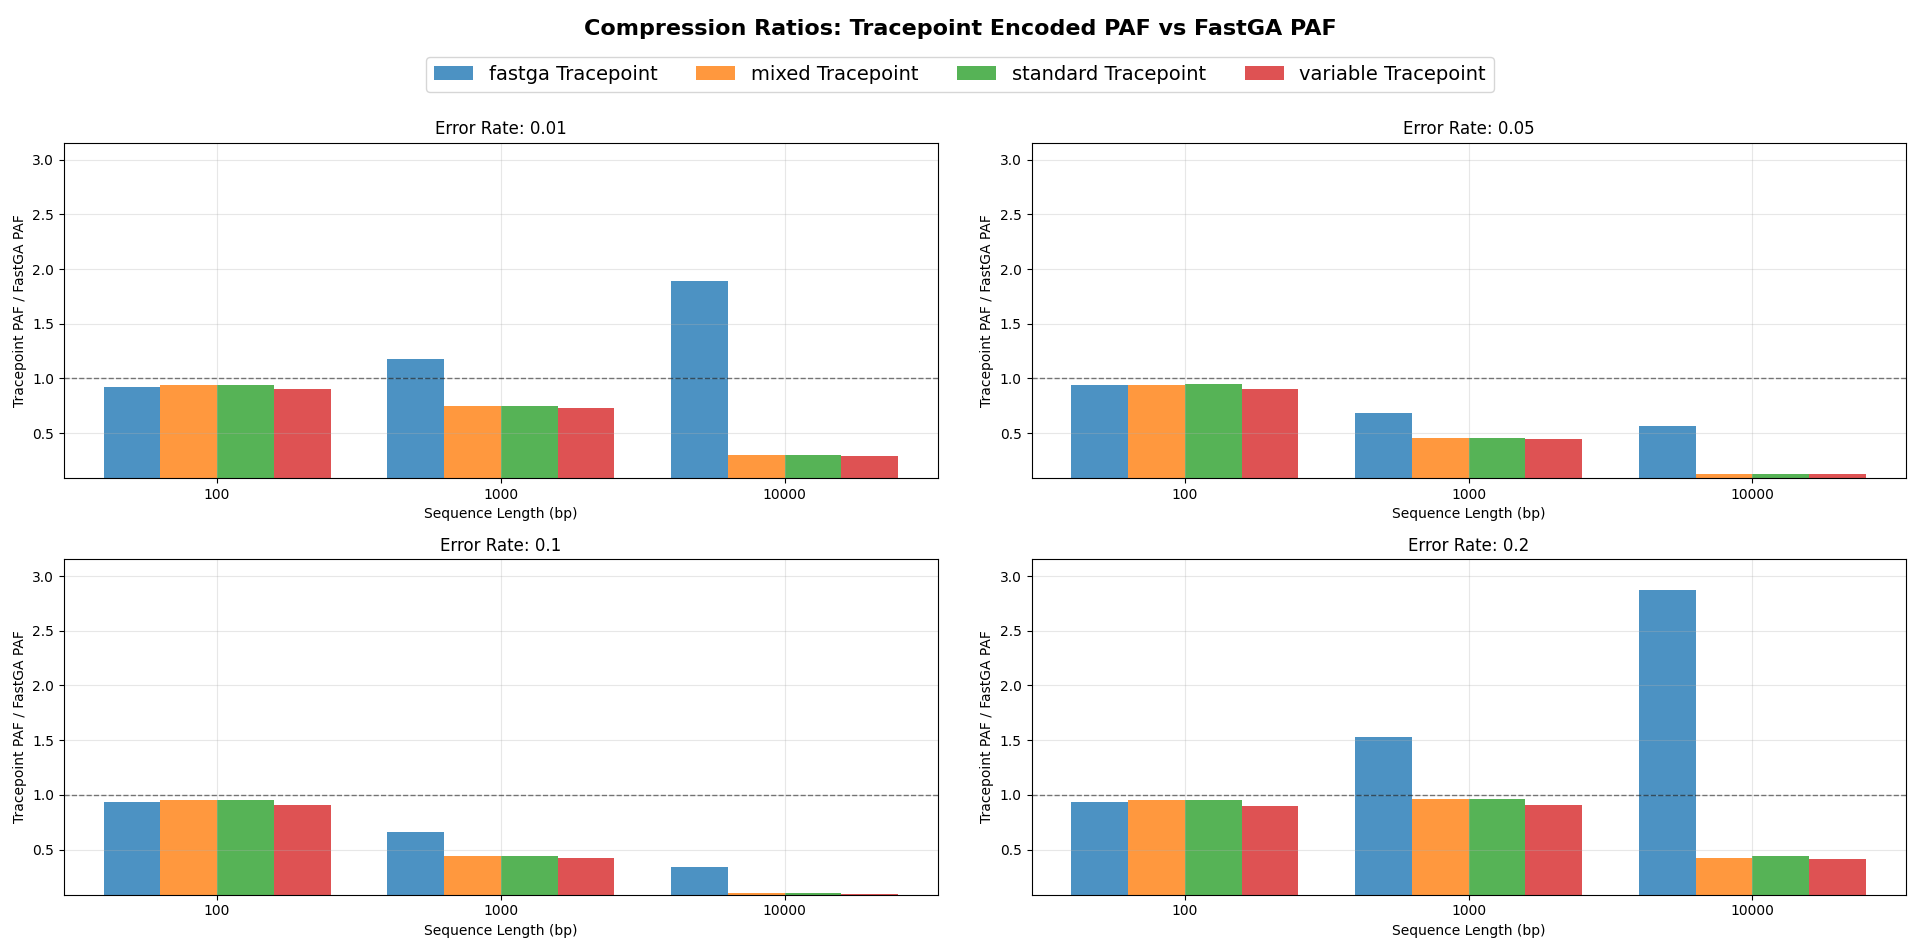
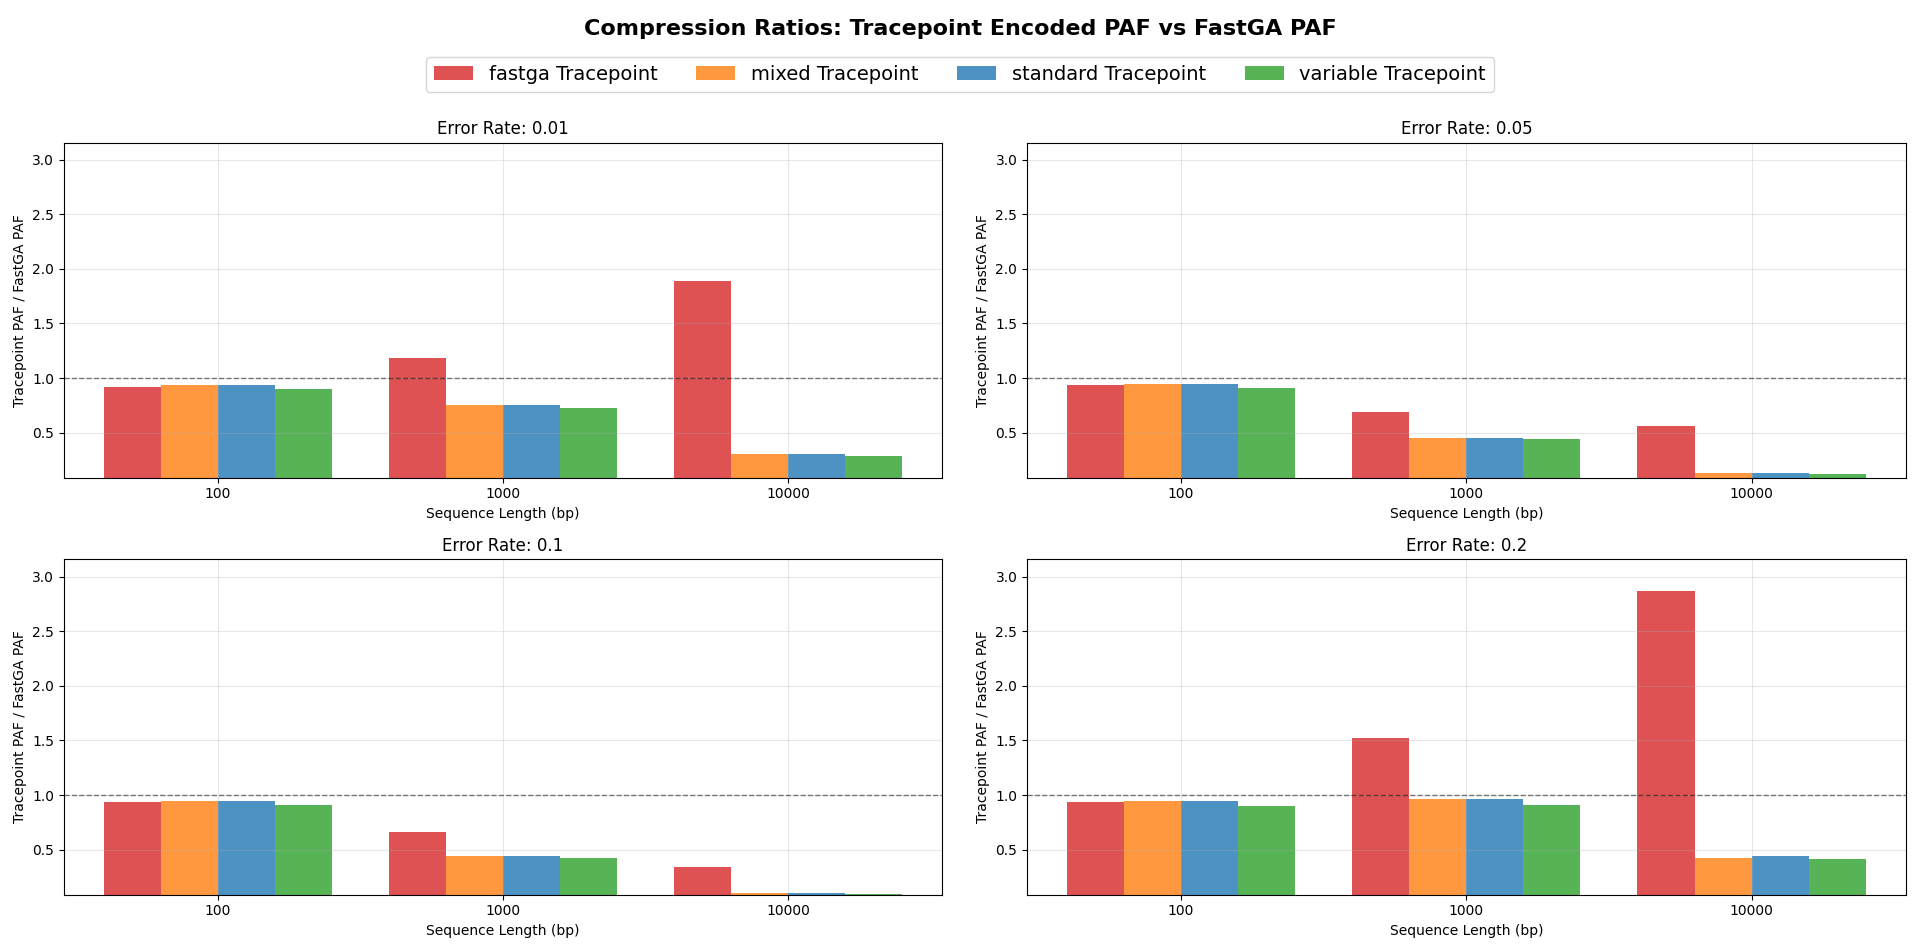
Update charts

diff --git a/plot_scripts/file_sizes_plotter.py b/plot_scripts/file_sizes_plotter.py
@@ -76,10 +76,12 @@ tracepoint_types = sorted(df['Tracepoint Type'].unique())
 print(f"Actual tracepoint types: {tracepoint_types}")
 
 # Create color map for actual types
-colors = {}
-color_list = ['#1f77b4', '#ff7f0e', '#2ca02c', '#d62728', '#9467bd', '#8c564b']
-for i, tp_type in enumerate(tracepoint_types):
-    colors[tp_type] = color_list[i % len(color_list)]
+colors = {
+    'fastga': '#d62728',     # Red
+    'mixed': '#ff7f0e',      # Orange  
+    'standard': '#1f77b4',   # Blue
+    'variable': '#2ca02c'    # Green
+}
 
 all_ratios = []  # For calculating global min/max
 
